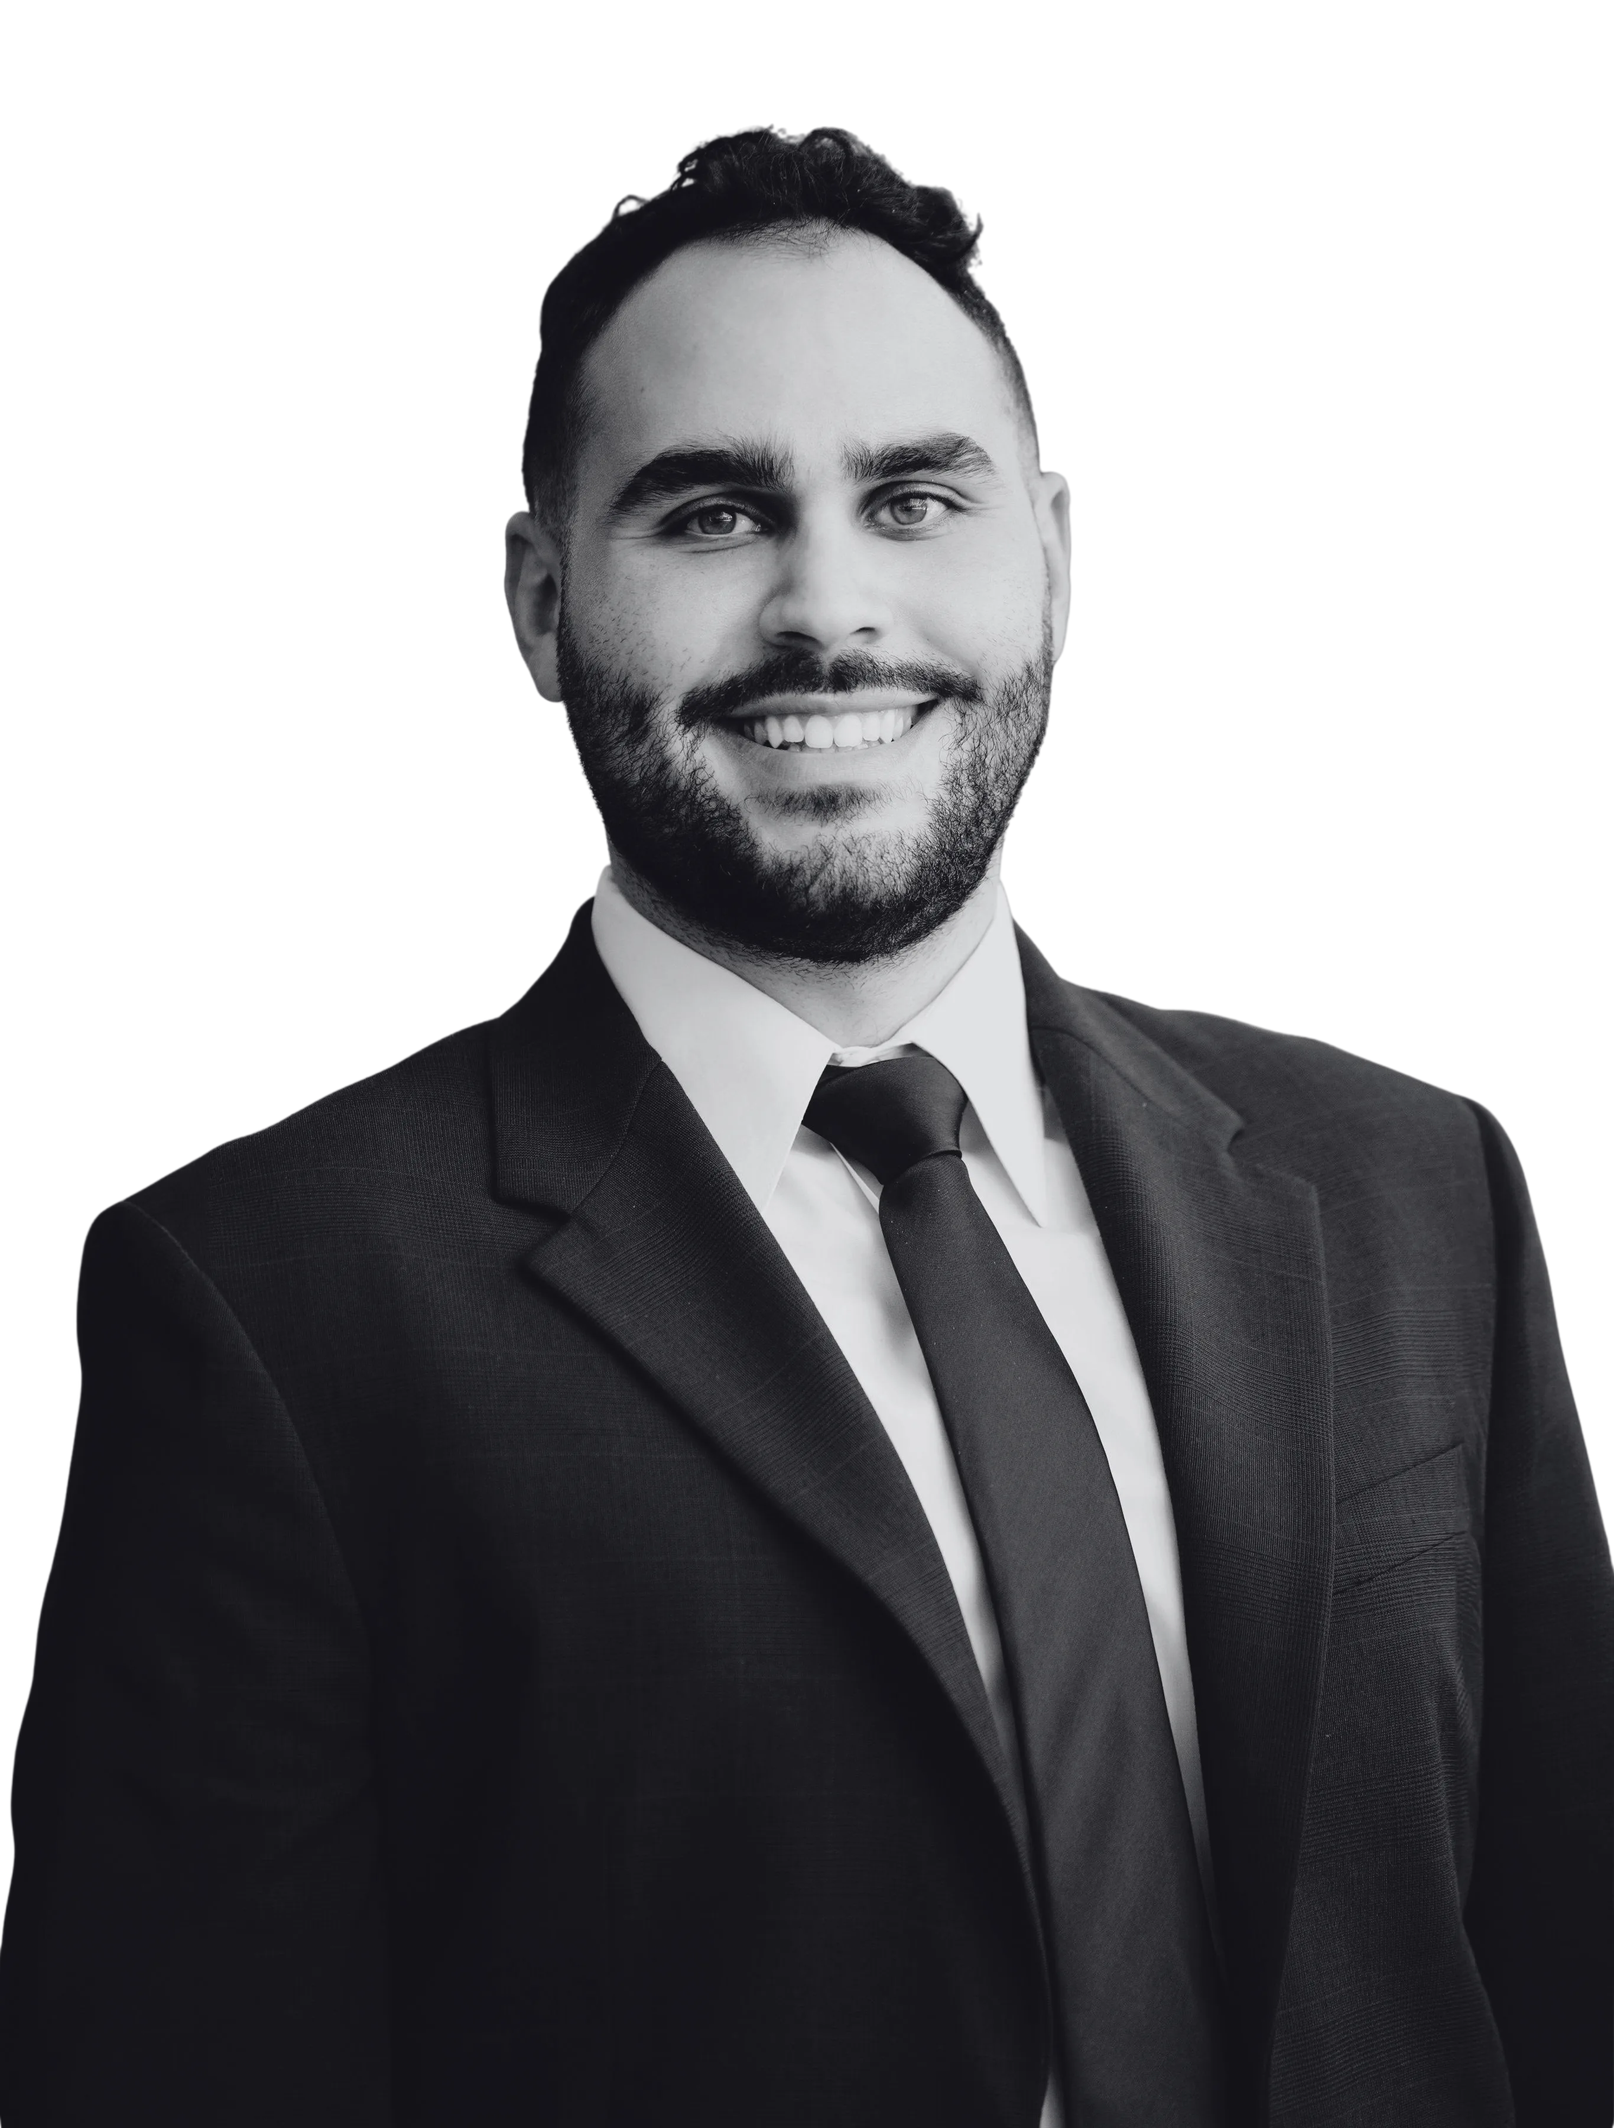
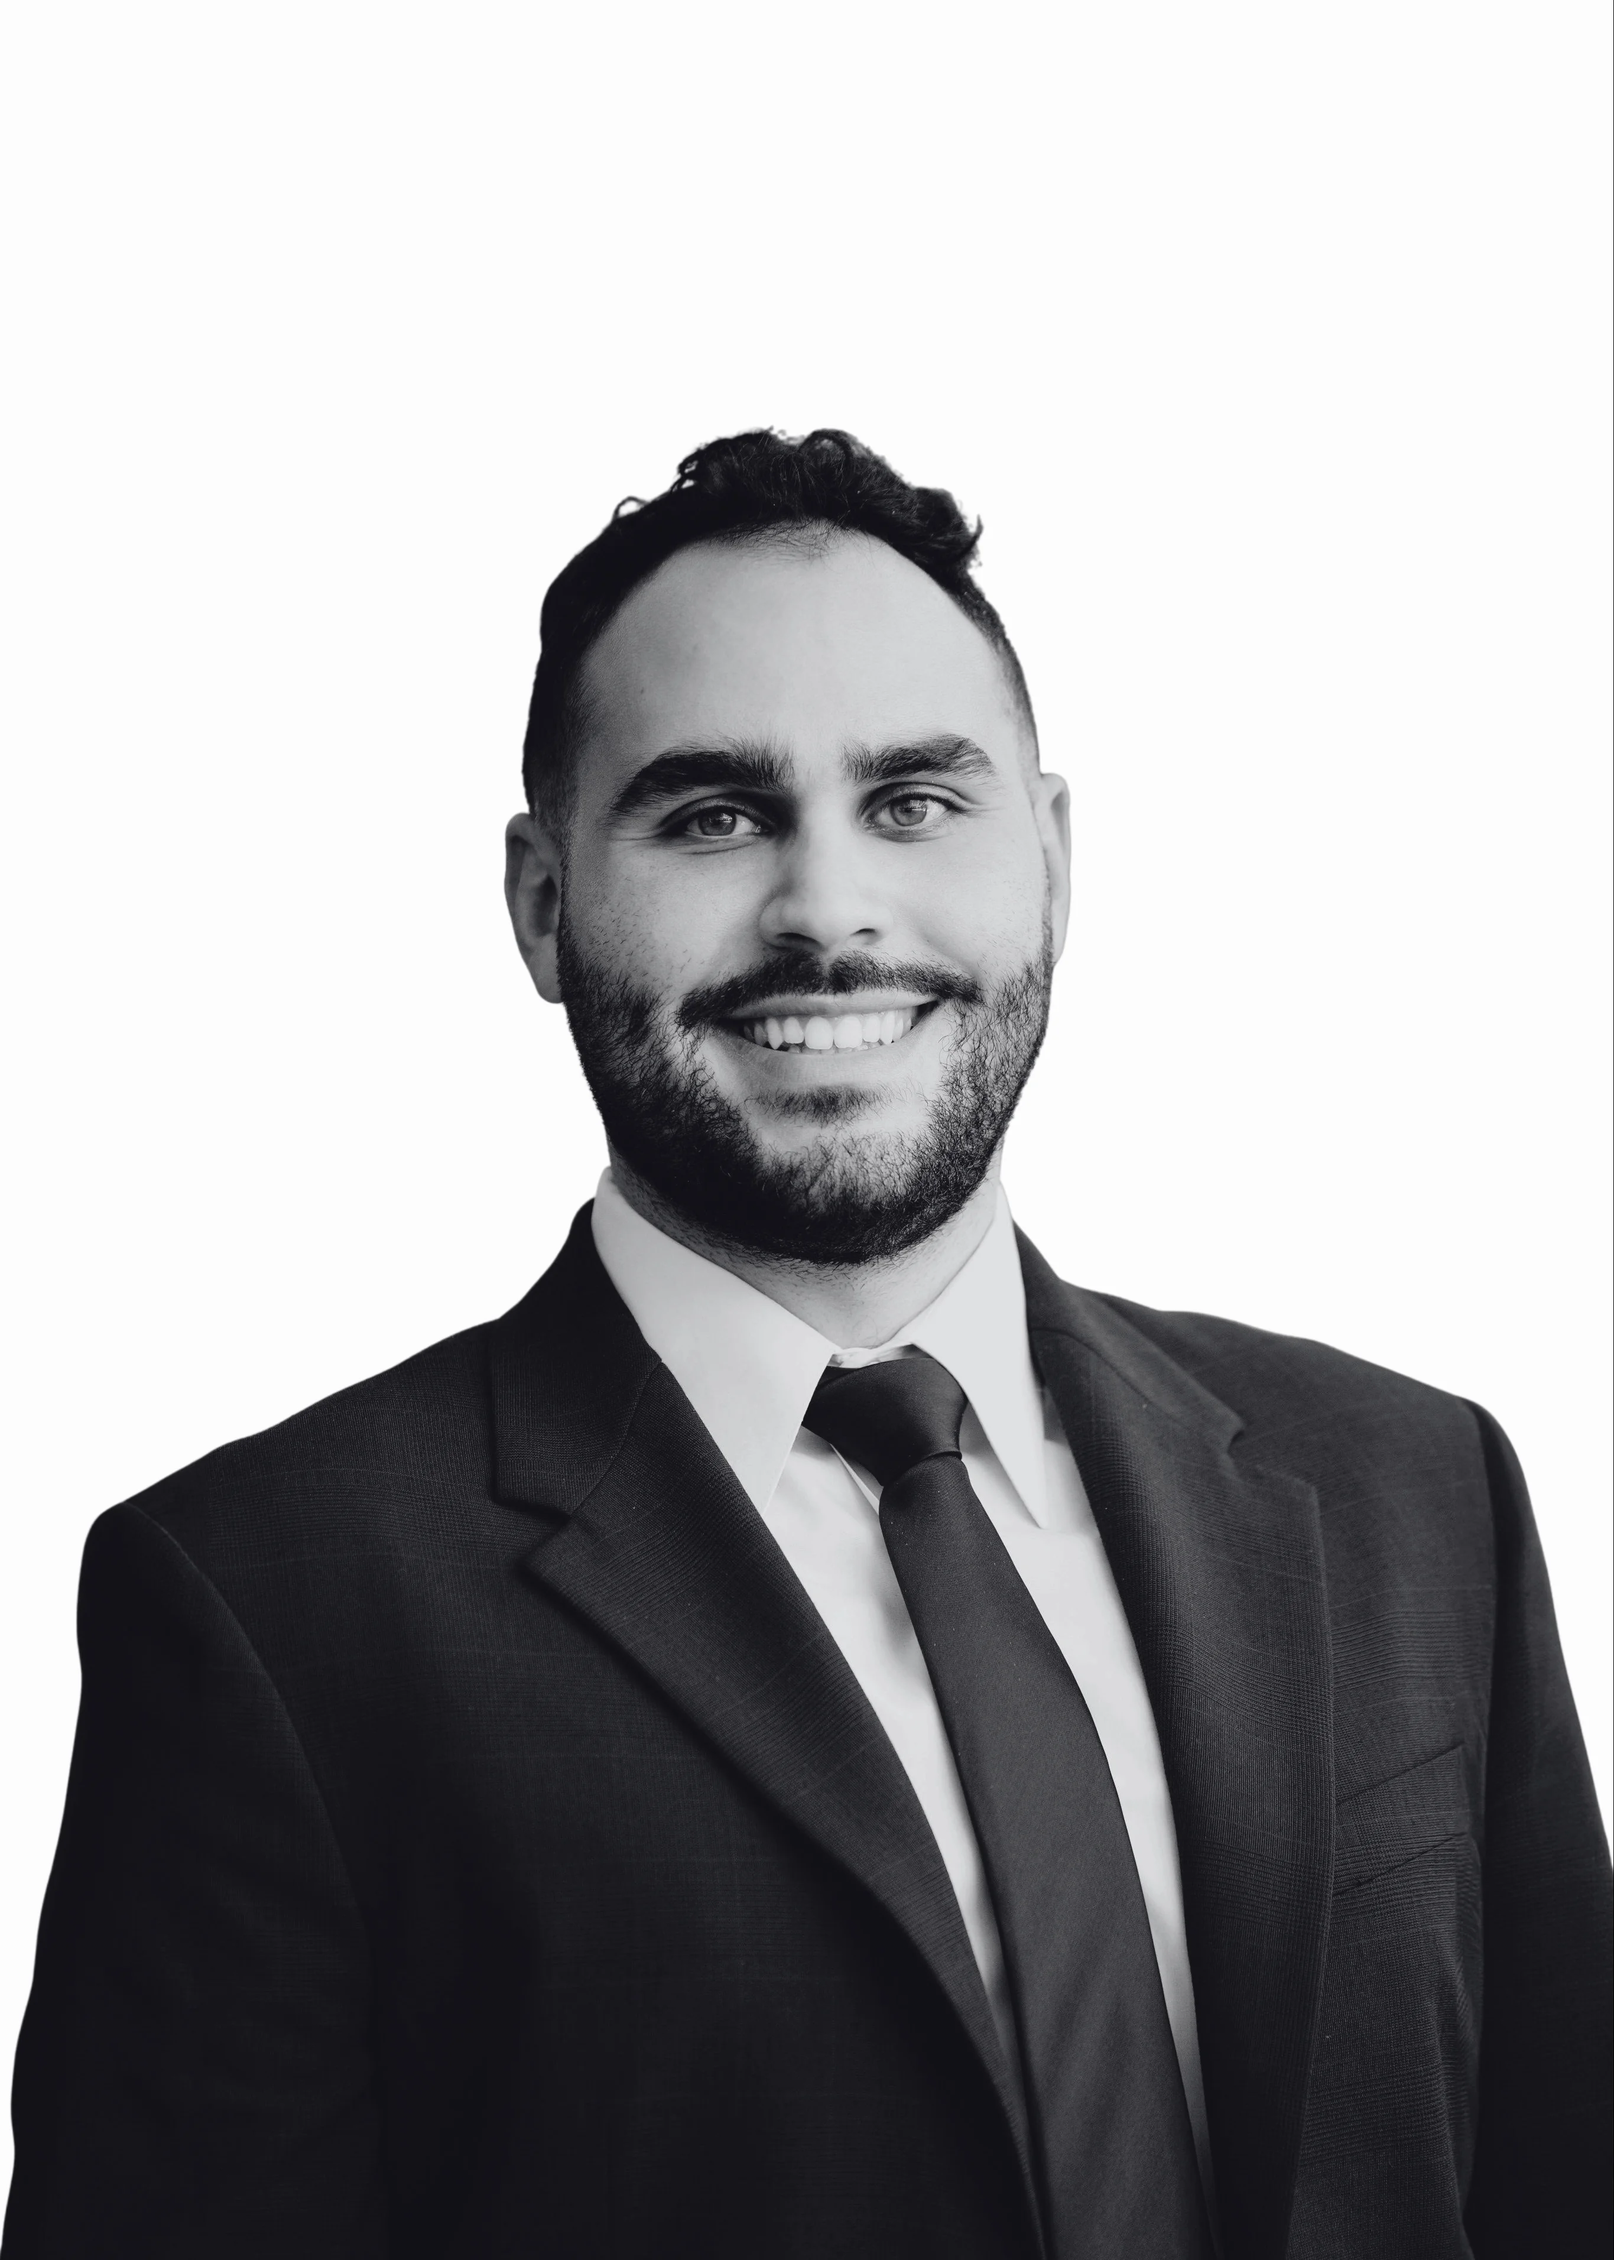
Fix Sacha photo and footer bottom bar layout
- Replace corrupted/empty sacha-boroumand.webp with properly composited WebP (opaque white bg, black padding cropped via imageScale)
- Adjust Sacha imagePosition and imageScale for correct card framing
- Restructure footer bottom bar into two rows: copyright+socials on top, DRE license+disclaimer below

Changed region(s): [[0.0, 0.0622, 1.0, 1.0], [0.996, 0.9956, 1.0, 1.0], [0.4046, 0.7156, 0.4357, 0.7467]]

diff --git a/components/sections/Footer.tsx b/components/sections/Footer.tsx
@@ -163,33 +163,25 @@ export default function Footer() {
         </div>
 
         {/* Bottom Bar */}
-        <div className="pt-8 border-t border-cream-100/10">
+        <div className="pt-8 border-t border-cream-100/10 space-y-3">
+          {/* Row 1: Copyright + Social */}
           <div className="flex flex-col md:flex-row md:items-center md:justify-between gap-4">
             <p className="text-caption text-cream-100/40 font-light">
               © 2026 Creation Partners. All rights reserved.
             </p>
-            <p className="text-caption text-cream-100/40 font-light">
-              Creation Realty Corporation: CA DRE Corporation License # 02240668
-            </p>
-            <p className="text-caption text-cream-100/40 font-light">
-              Select images may include artistic or stylized representations&nbsp;&nbsp;|&nbsp;&nbsp;For accessibility assistance, please contact us at{' '}
-              <a href="mailto:hello@creation-partners.com" className="hover:text-cream-100/70 transition-colors">hello@creation-partners.com</a>
-            </p>
-            
-            {/* Social Links */}
             <div className="flex items-center gap-6">
-              <a 
-                href="https://www.linkedin.com/company/creationpartners" 
-                target="_blank" 
+              <a
+                href="https://www.linkedin.com/company/creationpartners"
+                target="_blank"
                 rel="noopener noreferrer"
                 className="text-caption text-cream-100/50 hover:text-cream-100 transition-colors font-light"
                 aria-label="LinkedIn (opens in new tab)"
               >
                 LinkedIn
               </a>
-              <a 
-                href="https://www.instagram.com/creation_partners" 
-                target="_blank" 
+              <a
+                href="https://www.instagram.com/creation_partners"
+                target="_blank"
                 rel="noopener noreferrer"
                 className="text-caption text-cream-100/50 hover:text-cream-100 transition-colors font-light"
                 aria-label="Instagram (opens in new tab)"
@@ -197,6 +189,17 @@ export default function Footer() {
                 Instagram
               </a>
             </div>
+          </div>
+          {/* Row 2: Legal / Compliance */}
+          <div className="flex flex-col md:flex-row md:items-center gap-2 md:gap-6">
+            <p className="text-caption text-cream-100/30 font-light">
+              Creation Realty Corporation: CA DRE Corporation License # 02240668
+            </p>
+            <span className="hidden md:inline text-cream-100/20">|</span>
+            <p className="text-caption text-cream-100/30 font-light">
+              Select images may include artistic or stylized representations&nbsp;&nbsp;|&nbsp;&nbsp;For accessibility assistance, please contact us at{' '}
+              <a href="mailto:hello@creation-partners.com" className="hover:text-cream-100/50 transition-colors">hello@creation-partners.com</a>
+            </p>
           </div>
         </div>
       </div>

diff --git a/components/sections/Team.tsx b/components/sections/Team.tsx
@@ -113,8 +113,8 @@ Prior to joining Creation Partners, Sacha spent two years as an Investment Assoc
 
 Sacha earned his degree in Communication from the University of California, Santa Barbara, where he founded the Alpha Epsilon Pi fraternity chapter during the COVID-19 pandemic and competed on the UCSB lacrosse team. These experiences shaped his leadership, adaptability, and team-oriented approach to serving clients.`,
     image: '/team/sacha-boroumand.webp',
-    imagePosition: 'center 28%',
-    imageScale: 'scale-[1.04]',
+    imagePosition: 'center bottom',
+    imageScale: 'scale-[1.12]',
   },
   {
     id: 8,
@@ -125,7 +125,7 @@ Sacha earned his degree in Communication from the University of California, Sant
 Jake recently graduated from the University of California, Davis, where he earned a Bachelor of Science in Managerial Economics with a minor in Accounting. He is currently pursuing graduate studies in real estate development.`,
     image: '/team/jake-ross.webp',
     imagePosition: 'center 15%',
-    imageScale: 'scale-[1.04]',
+    imageScale: 'scale-[1.08]',
   },
   {
     id: 9,
